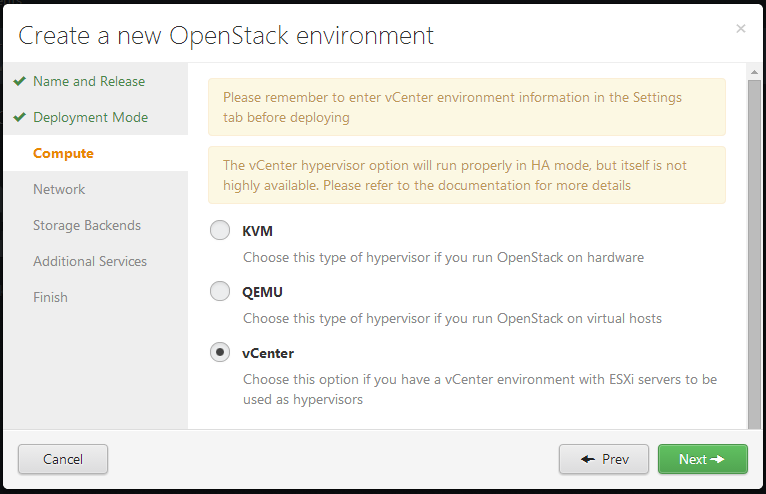
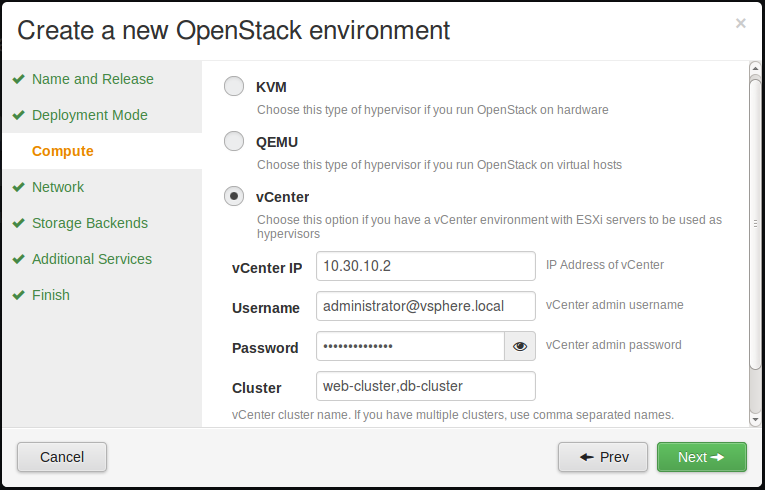
document multiple vCenter clusters support
- explicitly state that the Nova compute service can manage multiple
  ESX host clusters via single vCenter server
- update screenshot where vCenter hypervisor is selected, which shows
  how to specify multiple clusters
- remove limitation which states that single OpenStack environment can
  communicate with only one vCenter cluster

Implements: blueprint vcenter-documentation-update-fuel-5.1

diff --git a/pages/planning-guide/7000-vcenter-plan.rst b/pages/planning-guide/7000-vcenter-plan.rst
@@ -9,6 +9,10 @@ VMware provides a vCenter driver for OpenStack
 that enables the Nova-compute service to
 communicate with a VMware vCenter server
 that manages one or more ESX host clusters.
+If your vCenter manages multiple ESX host clusters,
+you can specify several or all clusters for a single OpenStack environment,
+so that the Nova-compute service manages
+multiple ESX host clusters via single vCenter server.
 The vCenter driver makes management convenient
 from both the OpenStack Dashboard (:ref:`horizon-term`)
 and from vCenter,
@@ -94,7 +98,7 @@ Follow the steps below:
 
 .. image:: /_images/esx-connection-settings.png
   :width: 70%
-  
+
 Limitations
 ------------------------------
 - Only :ref:`nova-network-term` with flatDHCP mode is supported
@@ -103,7 +107,6 @@ Limitations
   with VMware VMDK datastore driver is not supported;
   you can only use Cinder with the LVM over iSCSI option
   as the Cinder backend.
-- Each OpenStack environment can support one vCenter cluster.
 - VMware vCenter can be deployed on Mirantis OpenStack
   with or without high-availability (HA) configured.
   Note, however, that the vCenter Nova plugin

diff --git a/pages/user-guide/vcenter.rst b/pages/user-guide/vcenter.rst
@@ -49,6 +49,9 @@ Select vCenter Hypervisor for vCenter
 
 Select the vCenter :ref:`hypervisor<hypervisor-ug>`
 when you create your OpenStack Environment.
+After that you need to fill corresponding fields.
+You can modify the vCenter specific values on the Settings tab after you
+create the environment.
 
 .. image:: /_images/user_screen_shots/vcenter-hv.png
    :width: 50%
